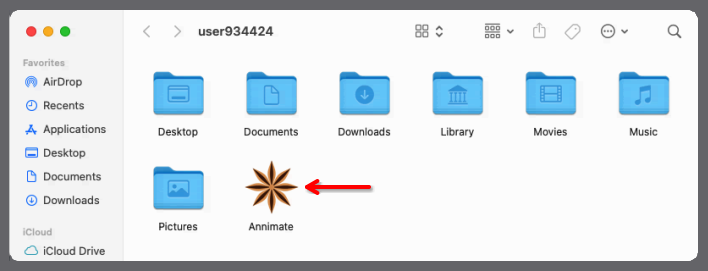
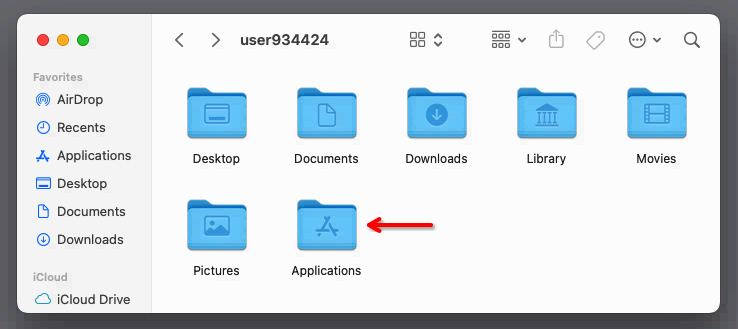
Update user guide regarding updates on macOS

diff --git a/docs/user-guide/src/installation.md b/docs/user-guide/src/installation.md
@@ -80,8 +80,6 @@ In order to install the Debian package, go through the following steps:
 
 On macOS, Annimate comes as a macOS Application Bundle (`.app` file) packaged in a `.tar.gz` archive. It can update itself automatically whenever a new version of Annimate becomes available.
 
-> **Note:** Installing Annimate on macOS does _not_ require administrator permissions unless it is installed into a protected folder such as `/Applications` that requires adminitrator permissions. However, installing it into a protected folder is discouraged because it will not be able to update itself automatically.
-
 There are two different versions of the Application Bundle for different types of processors:
 
 - Apple silicon processors (for newer Mac computers, starting from late 2020)
@@ -103,7 +101,10 @@ In order to install Annimate, go through the following steps:
 
    ![Screenshot of macOS extracted archive file](img/macos-extracted.png)
 
-3. Move the `Annimate` Application Bundle to a folder that is not protected. This excludes folders that require administrator permissions such as `/Applications`, your desktop or other special folders in your home directory such as `Documents` or `Downloads`. You could, for instance, move it into your home directory or in a subfolder of your home directory such as `~/Applications` that you may have to create first.
+3. Move the `Annimate` Application Bundle to one of the following folders:
+
+   - To install it only for the current user (does _not_ require administrator permissions): Move it to a subfolder of your home directory such as `~/Applications`. You may have to create this folder first in case it does not exist yet.
+   - To install it system-wide (requires administrator permissions): Move it to the system-wide `/Applications` folder.
 
 4. Open a terminal by clicking on the "Terminal" icon in your Dock:
    ![Screenshot of macOS terminal button](img/macos-terminal-button.png)
@@ -114,12 +115,14 @@ In order to install Annimate, go through the following steps:
    xattr -d com.apple.quarantine Annimate.app
    ```
 
-   The following screenshot shows a terminal session where the file is moved from the `Downloads` folder to the home directory (`~`) and the quarantine attribute is removed:
+   The following screenshot shows a terminal session where the file is moved from the `Downloads` folder to the (newly created) `~/Applications` folder and the quarantine attribute is removed:
 
    ![Screenshot of macOS terminal](img/macos-terminal.png)
 
-6. Afterwards you can run Annimate by double-clicking on the `Annimate` app icon (shown here in the home directory):
+6. Afterwards you can run Annimate by navigating to the installation folder (here: `~/Applications`) and double-clicking on the `Annimate` app icon:
+
    ![Screenshot of macOS home folder](img/macos-home.png)
+   ![Screenshot of macOS applications folder](img/macos-applications.png)
 
 #### Automatic updates
 
@@ -132,7 +135,9 @@ If you choose to apply the update, the application will restart itself afterward
 
 > **Note:** We strongly recommend that you install updates in order to keep up with new features and bugfixes.
 
-In case you see an error message when Annimate tries to install the update, make sure that the folder containing the Annimate Application Bundle does not require administrator permissions and isn't one of the protected folders `Desktop`, `Documents` or `Downloads`.
+In case Annimate is installed in a folder that requires administrator permissions, you are prompted to enter your administrator credentials:
+
+![Screenshot of macOS automatic update](img/macos-update.png)
 
 ## Obtaining Older Versions
 

diff --git a/docs/user-guide/src/troubleshooting.md b/docs/user-guide/src/troubleshooting.md
@@ -14,23 +14,19 @@ this is because Annimate has not been signed by Apple.
 
 To fix this, make sure that you remove the "quarantine" attribute as described in the [Installation](installation.md#macos) section.
 
-### There is a "permission denied" error when trying to install an update
+### On Linux, there is a "permission denied" error when trying to install an update
 
-If you see an error message like this when Annimate tries to install an update (instead of `os error 13`, it could also show `os error 1`):
+If you see an error message like this when Annimate tries to install an update on Linux (instead of `os error 13`, it could also show `os error 1`):
 
 ![Screenshot of error during update](img/update-error.png)
 
-this is because Annimate has no write permissions on its executable file.
-
-This mostly happens on macOS if Annimate is installed into a folder such as `/Applications` that requires administrator permissions or in a protected folder such as `Desktop`, `Documents` or `Downloads` in the home directory. To fix this, make sure to install Annimate into a non-protected folder as described in the [Installation](installation.md#macos) section.
-
-It can also happen on Linux if the current user has no permission to write to the folder containing the Annimate AppImage. To fix this, you may assign the necessary permissions by running
+this is because the current user has no permission to write to the folder containing the Annimate AppImage. To fix this, you may assign the necessary permissions by running
 
 ```shell
 chmod u+w <folder containing the .appimage file>
 ```
 
-In any case, instead of letting Annimate update itself, you can alternatively just download and install/run the latest release.
+In any case, instead of letting Annimate update itself, you can alternatively just download and run the latest release.
 
 > **Note:** Your imported corpora are persisted across updates and will _not_ be lost even if you install a newer version manually.
 

diff --git a/docs/user-guide/README.md b/docs/user-guide/README.md
@@ -1,4 +1,6 @@
-# Taking Screenshots
+# Annimate User Guide Authoring
+
+## Taking Screenshots
 
 - In `tauri.conf.json`, set window size to `1088x768`
 - In `main.rs`, comment the restoration of the window state
